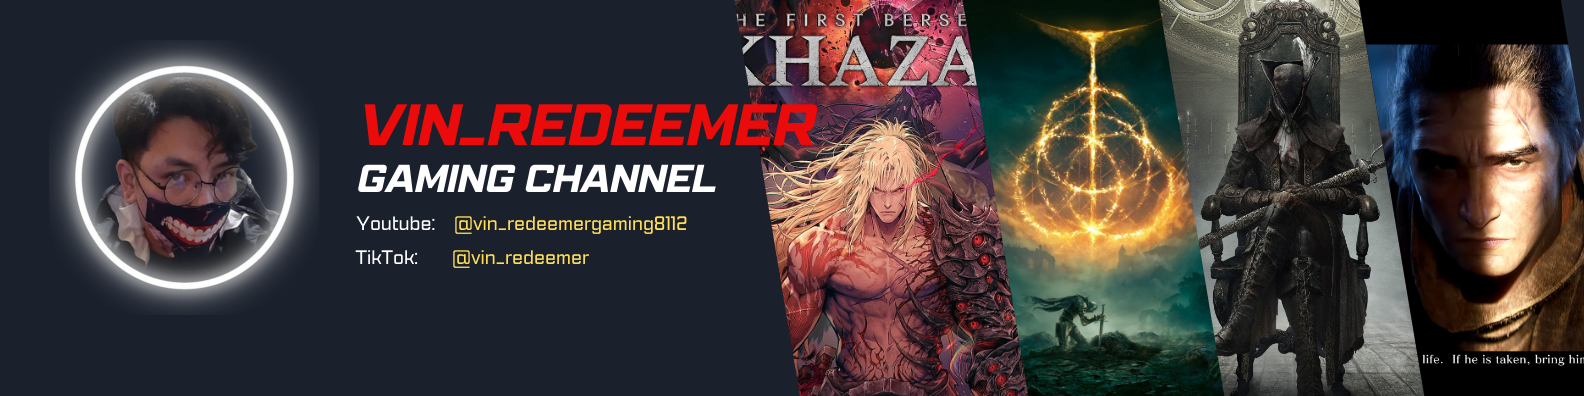
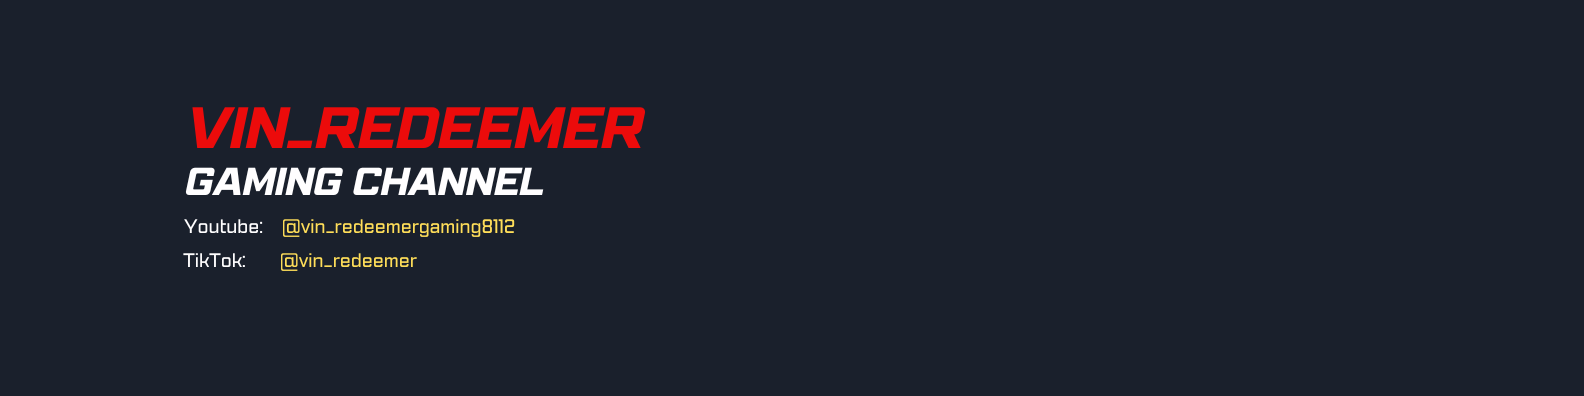
2ND UPDATE

diff --git a/test.html b/test.html
@@ -9,10 +9,32 @@
   <style>
     body {
       background-color: #1a202c;
-      color: white;
+      color: black;
       font-family: sans-serif;
     }
 
+.banner-circle {
+  position: absolute;
+  top: 50%;
+  left: 5%;
+  transform: translateY(-50%);
+  width: 20vh;
+  height: 20vh;
+  border-radius: 50%;
+  background-color: white;
+  border: 4px solid white;
+  z-index: 20;
+  overflow: hidden;
+  display: flex;
+  align-items: center;
+  justify-content: center;
+}
+
+.banner-circle img {
+  width: 100%;
+  height: 100%;
+  object-fit: cover;
+}
     .banner {
       width: 100%;
       height: 30vh;
@@ -39,7 +61,7 @@
       left: 50%;
       transform: translate(-50%, -50%);
       width: 100%;
-      height: auto;
+      height: 10%;
       min-height: 100%;
       object-fit: cover;
       user-select: none;
@@ -47,15 +69,13 @@
       cursor: grab;
     }
 
-    .banner.dragging {
-      cursor: grabbing;
-    }
 
     .streaming-stats {
       width: 70%;
       padding: 1.5rem;
       overflow-y: auto;
       margin-left: 5%;
+      background-color: #1a202c;
     }
 
     .title {
@@ -63,6 +83,7 @@
       font-weight: bold;
       margin-bottom: 1rem;
       text-align: center;
+      color: white;
     }
 
     .flex-container {
@@ -74,7 +95,7 @@
 
     .stat-container {
       width: 30%;
-      background-color: #2d3748; /* equivalent to bg-gray-800 */
+      background-color: white; /* equivalent to bg-gray-800 */
       padding: 1rem;
       border-radius: 0.375rem; /* rounded-lg */
       box-shadow: 0 4px 6px rgba(0, 0, 0, 0.1); /* shadow-md */
@@ -85,6 +106,7 @@
       font-weight: 600;
       margin-bottom: 0.5rem;
       text-align: center;
+      color: black;
     }
 
     .stat-list {
@@ -145,7 +167,7 @@
 }
 
 .profile-link:hover {
-  color: #9b3dd1; /* hover:text-purple-400 */
+  color: red; /* hover:text-purple-400 */
 }
 
 /* Top Supporters Section */
@@ -169,13 +191,211 @@
   height: 100%;
 }
 
+.profile-intro {
+  position: fixed;
+  top: 50%;
+  left: 50%;
+  width: 20vh;
+  height: 20vh;
+  border-radius: 50%;
+  overflow: hidden;
+  transform: translate(-50%, -50%);
+  z-index: 9999;
+  border: 4px solid white;
+  background-color: #2d3748;
+  transition: all 1s ease-in-out;
+  cursor: pointer;
+}
+
+.profile-intro img {
+  width: 100%;
+  height: 100%;
+  object-fit: cover;
+}
+
+/* Spin animation */
+.spin {
+  animation: spinAnimation 6s ease-in-out;
+}
+
+@keyframes spinAnimation {
+  0% { transform: translate(-50%, -50%) rotate(0deg); }
+  100% { transform: translate(-50%, -50%) rotate(1080deg); } /* 3 full spins */
+}
+
+/* Final position on banner */
+.profile-final {
+position: absolute;
+  top: 50%;
+  left: 5%;
+  transform: translateY(-50%);
+  width: 20vh;
+  height: 20vh;
+  border-radius: 50%;
+  background-color: #2d3748;
+  border: 4px solid white;
+  z-index: 20;
+  overflow: hidden;
+  display: flex;
+  align-items: center;
+  justify-content: center;
+}
+.door {
+  position: fixed;
+  top: 0;
+  width: 50vw;
+  height: 100vh;
+  background-size: cover;
+  background-repeat: no-repeat;
+  background-position: center;
+  z-index: 1000;
+  transition: transform 1s ease-in-out;
+}
+
+.left-door {
+  left: 0;
+  background-image: url(./images/leftdoor.PNG);
+}
+
+.right-door {
+  right: 0;
+  background-image: url(./images/rightdoor.PNG)
+}
+
+/* Door open animations */
+.slide-left {
+  transform: translateX(-100%);
+}
+
+.slide-right {
+  transform: translateX(100%);
+}
+
+/* Profile Image Center Start */
+.profile-intro {
+  position: fixed;
+  top: 50%;
+  left: 50%;
+  width: 20vh;
+  height: 20vh;
+  border-radius: 50%;
+  overflow: hidden;
+  transform: translate(-50%, -50%);
+  z-index: 1100;
+  border: 4px solid white;
+  background-color: #2d3748;
+  transition: all 1s ease-in-out;
+  cursor: pointer;
+}
+
+.profile-intro img {
+  width: 100%;
+  height: 100%;
+  object-fit: cover;
+}
+
+/* Spin animation */
+.spin {
+  animation: spinAnimation 1s ease-in-out;
+}
+
+@keyframes spinAnimation {
+  0% { transform: translate(-50%, -50%) rotate(0deg); }
+  100% { transform: translate(-50%, -50%) rotate(1080deg); }
+}
+
+/* Final position of profile pic */
+.profile-final {
+  position: absolute;
+  top: 60px;
+  left: 40px;
+  transform: none !important;
+  width: 17vh;
+  height: 17vh;
+  transition: all 0.7s ease-in-out;
+  z-index: 20;
+}
+
+.rhombus-container {
+  position: absolute;
+  top: -120%;
+  right: -1%; /* Align container to the right */
+  display: flex; /* Proper use of flex */
+  flex-direction: row; /* Place rhombuses side by side */
+  gap: 0; /* Adds space between rhombuses */
+  padding: 0;
+}
+
+.rhombus {
+  width: 220px; /* Fixed width for each rhombus */
+  height: 1000px; /* Fixed height for each rhombus */
+  background-color: white;
+  transform: skewY(0deg); /* Slant the side vertically */
+  border: 0.5px solid black;
+  box-shadow: 0 0 5px rgba(0, 0, 0, 0.5);
+  transition: transform 0.3s ease; /* Smooth animation */
+}
+
+.rhombus:hover {
+  transform: scale(1.3); /* Slightly bigger on hover */
+}
+
+.rhombus1 {
+  background-image: url('./images/Khazan.webp');
+  background-size:auto;
+  background-position: center;
+  background-position-y: center;
+}
+.rhombus2 {
+  background-image: url('./images/bloodborne.webp');
+  background-size: auto;
+  background-position: center;
+  background-position-y: -5px;
+}
+.rhombus3 {
+  background-image: url('./images/Sekiro.webp');
+  background-size: auto;
+  background-position: center;
+  background-position-y: 900px;
+  background-position-x: -900px ;
+}
+.rhombus4 {
+  background-image: url('./images/wallpaperflare.com_wallpaper\ \(7\).jpg');
+  background-size: auto;
+  background-position: center;
+}
+
   </style>
 </head>
 <body>
+    <div id="door-left" img src="./images/leftdoor.PNG"  class="door left-door"></div>
+    <div id="door-right" img src="./images/rightdoor.PNG" class="door right-door"></div>
+    
+    <!-- Profile Intro Animation -->
+    <div class="profile-intro" id="profileIntro">
+      <img src="./images/mypic.png" alt="Profile Picture" />
+    </div>
+    
+    <!-- Main Content Hidden Initially -->
+    <div id="homepageContent" style="opacity: 0; transition: opacity 1s ease-in-out;">
+      <!-- Your existing homepage content goes here -->
+    </div>
   <!-- Banner -->
   <header class="banner" id="banner">
     <img src="./images/Banner.png" alt="Banner" id="bannerImg"/>
+    <!-- Circle part -->
+    <Aside>
+      <div class="rhombus-container">
+        <div  class="rhombus rhombus1">1</div>
+        <div  class="rhombus rhombus2">2</div>
+        <div class="rhombus rhombus3">3</div>
+        <div class="rhombus rhombus4">4</div>
+      </div>
+  </Aside>
   </header>
+  
+
+  
 
   <!-- Main Content -->
   <main class="flex h-[100%]">
@@ -287,16 +507,7 @@
     let isDragging = false;
     let startY, currentY = 0;
 
-    banner.addEventListener('mousedown', (e) => {
-      isDragging = true;
-      startY = e.clientY - currentY;
-      banner.classList.add('dragging');
-    });
 
-    document.addEventListener('mouseup', () => {
-      isDragging = false;
-      banner.classList.remove('dragging');
-    });
 
     document.addEventListener('mousemove', (e) => {
       if (!isDragging) return;
@@ -312,9 +523,37 @@
         bannerImg.style.top = currentY + 'px';
       }
     });
+
+    const profileIntro = document.getElementById('profileIntro');
+  const doorLeft = document.getElementById('door-left');
+  const doorRight = document.getElementById('door-right');
+  const homepageContent = document.getElementById('homepageContent');
+
+  profileIntro.addEventListener('click', () => {
+    // Spin the profile picture
+    profileIntro.classList.add('spin');
+
+    // Wait for spin to finish, then open doors
+    setTimeout(() => {
+      profileIntro.classList.remove('spin');
+      profileIntro.classList.add('profile-final');
+
+      // Slide doors
+      doorLeft.classList.add('slide-left');
+      doorRight.classList.add('slide-right');
+
+      // Reveal homepage content after doors open
+      setTimeout(() => {
+        homepageContent.style.opacity = 1;
+        // Optional: remove the doors from DOM after animation
+        doorLeft.style.display = 'none';
+        doorRight.style.display = 'none';
+      }, 2000);
+    }, 2000);
+  });
+
+
+
   </script>
 </body>
 </html>
-
-
-
